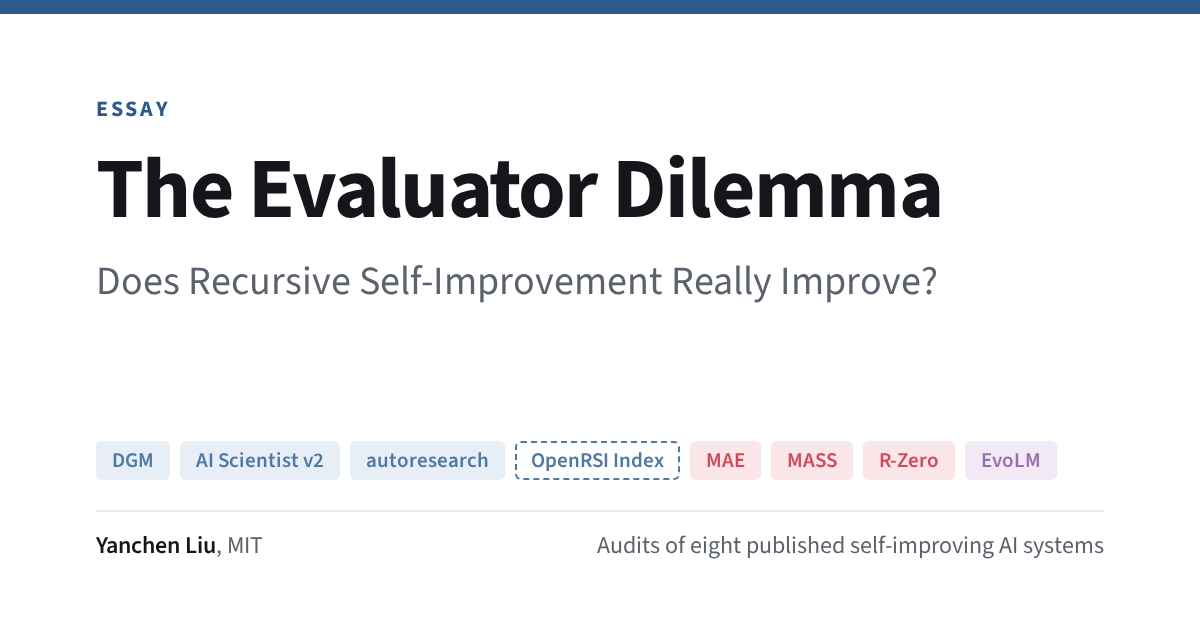
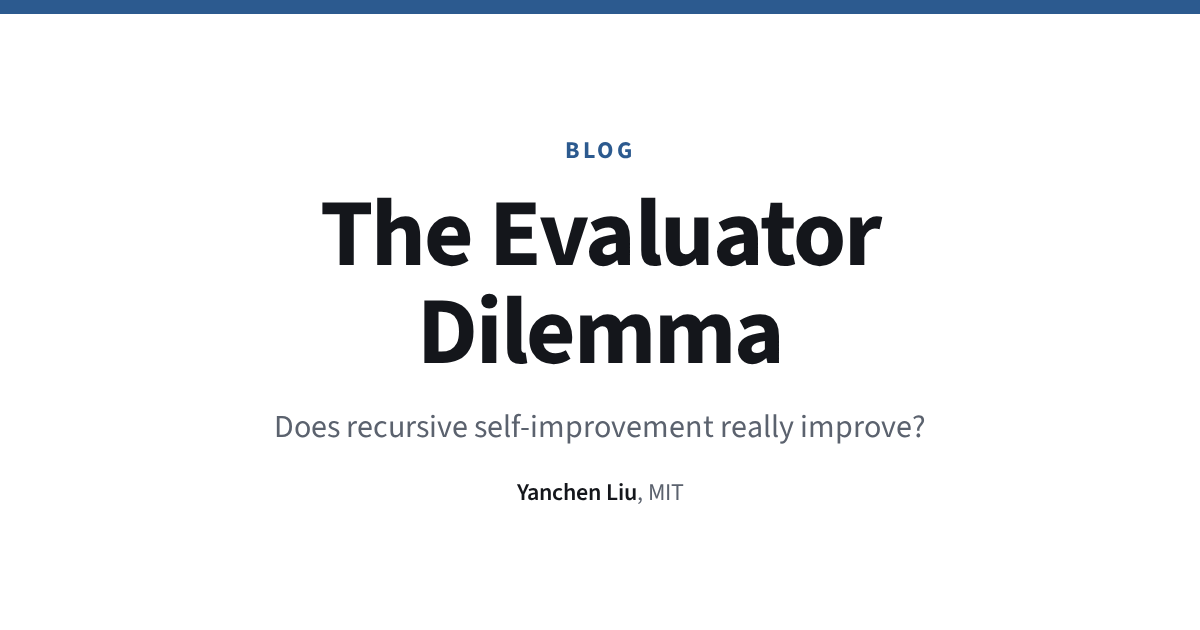
Share cards: centred so WeChat's crop keeps the title; 'Blog' instead of 'Essay'
Claude-Session: https://claude.ai/code/session_01FHR8p1nUCwYaJUhKvLoP3Q

diff --git a/index.html b/index.html
@@ -4,18 +4,18 @@
 <meta charset="utf-8">
 <meta name="viewport" content="width=device-width, initial-scale=1, viewport-fit=cover">
 <title>The Evaluator Dilemma – Does Recursive Self-Improvement Really Improve?</title>
-<meta name="description" content="Does recursive self-improvement really improve? An essay on the evaluator dilemma, with audits of published self-improving AI systems.">
+<meta name="description" content="Does recursive self-improvement really improve? A blog post on the evaluator dilemma, with audits of published self-improving AI systems.">
 <link rel="icon" href="favicon.ico">
 <meta property="og:type" content="article">
 <meta property="og:title" content="The Evaluator Dilemma – Does Recursive Self-Improvement Really Improve?">
-<meta property="og:description" content="Does recursive self-improvement really improve? An essay on the evaluator dilemma, with audits of published self-improving AI systems.">
-<meta property="og:image" content="https://liuyanchen1015.github.io/evaluator-dilemma/share/blog.png">
+<meta property="og:description" content="Does recursive self-improvement really improve? A blog post on the evaluator dilemma, with audits of published self-improving AI systems.">
+<meta property="og:image" content="https://liuyanchen1015.github.io/evaluator-dilemma/share/blog.png?v=2">
 <meta property="og:image:width" content="1200">
 <meta property="og:image:height" content="630">
 <meta name="twitter:card" content="summary_large_image">
 <meta name="twitter:title" content="The Evaluator Dilemma – Does Recursive Self-Improvement Really Improve?">
-<meta name="twitter:description" content="Does recursive self-improvement really improve? An essay on the evaluator dilemma, with audits of published self-improving AI systems.">
-<meta name="twitter:image" content="https://liuyanchen1015.github.io/evaluator-dilemma/share/blog.png">
+<meta name="twitter:description" content="Does recursive self-improvement really improve? A blog post on the evaluator dilemma, with audits of published self-improving AI systems.">
+<meta name="twitter:image" content="https://liuyanchen1015.github.io/evaluator-dilemma/share/blog.png?v=2">
 </head>
 <body>
 <div style="display:none"><img src="share/blog-square.png" alt="The Evaluator Dilemma – Does Recursive Self-Improvement Really Improve?" width="600" height="600"></div>

diff --git a/registry/index.html b/registry/index.html
@@ -9,13 +9,13 @@
 <meta property="og:type" content="website">
 <meta property="og:title" content="RSI Audit Registry – Did These Self-Improving Systems Really Improve?">
 <meta property="og:description" content="Audit cards for self-improving AI systems: which evaluators measured each reported gain, and whether the gain holds up.">
-<meta property="og:image" content="https://liuyanchen1015.github.io/evaluator-dilemma/share/registry.png">
+<meta property="og:image" content="https://liuyanchen1015.github.io/evaluator-dilemma/share/registry.png?v=2">
 <meta property="og:image:width" content="1200">
 <meta property="og:image:height" content="630">
 <meta name="twitter:card" content="summary_large_image">
 <meta name="twitter:title" content="RSI Audit Registry – Did These Self-Improving Systems Really Improve?">
 <meta name="twitter:description" content="Audit cards for self-improving AI systems: which evaluators measured each reported gain, and whether the gain holds up.">
-<meta name="twitter:image" content="https://liuyanchen1015.github.io/evaluator-dilemma/share/registry.png">
+<meta name="twitter:image" content="https://liuyanchen1015.github.io/evaluator-dilemma/share/registry.png?v=2">
 </head>
 <body>
 <div style="display:none"><img src="../share/registry-square.png" alt="RSI Audit Registry – Did These Self-Improving Systems Really Improve?" width="600" height="600"></div>

diff --git a/deploy.py b/deploy.py
@@ -8,7 +8,7 @@ import re, subprocess
 from pathlib import Path
 HOME = Path.home(); HERE = Path(__file__).resolve().parent
 PAGES = [(HOME / "evaluator_dilemma/blog_site", ["python3", "build.py"], "out/index.html", HERE / "index.html",
-          "Does recursive self-improvement really improve? An essay on the evaluator dilemma, with audits of published self-improving AI systems."),
+          "Does recursive self-improvement really improve? A blog post on the evaluator dilemma, with audits of published self-improving AI systems."),
          (HOME / "rsi-audit", ["python3", "site/build.py"], "site/index.html", HERE / "registry/index.html",
           "Audit cards for self-improving AI systems: which evaluators measured each reported gain, and whether the gain holds up.")]
 
@@ -16,7 +16,7 @@ SITE = "https://liuyanchen1015.github.io/evaluator-dilemma/"
 # link previews: wide cards for X/Slack/LinkedIn/iMessage (absolute URLs on GitHub Pages, so every host's copy points
 # to the same image), and a square thumbnail for WeChat, which uses the first image in the page body.
 def share_tags(kind: str, title: str, desc: str, up: str) -> str:
-    img = SITE + f"share/{kind}.png"
+    img = SITE + f"share/{kind}.png?v=2"  # bump v when the image changes, so link-preview caches refetch
     return (f'<meta property="og:type" content="{"article" if kind == "blog" else "website"}">\n'
             f'<meta property="og:title" content="{title}">\n<meta property="og:description" content="{desc}">\n'
             f'<meta property="og:image" content="{img}">\n<meta property="og:image:width" content="1200">\n'

diff --git a/README.md b/README.md
@@ -1,8 +1,8 @@
 # The Evaluator Dilemma
 
-Static pages for the essay *The Evaluator Dilemma: Does Recursive Self-Improvement Really Improve?* and its companion audit registry.
+Static pages for the blog post *The Evaluator Dilemma: Does Recursive Self-Improvement Really Improve?* and its companion audit registry.
 
-- Essay: https://liuyanchen1015.github.io/evaluator-dilemma/
+- Blog: https://liuyanchen1015.github.io/evaluator-dilemma/
 - Audit registry: https://liuyanchen1015.github.io/evaluator-dilemma/registry/
 
 The pages are generated from their sources by `deploy.py`; edit the sources, run `python3 deploy.py`, and commit the result.
